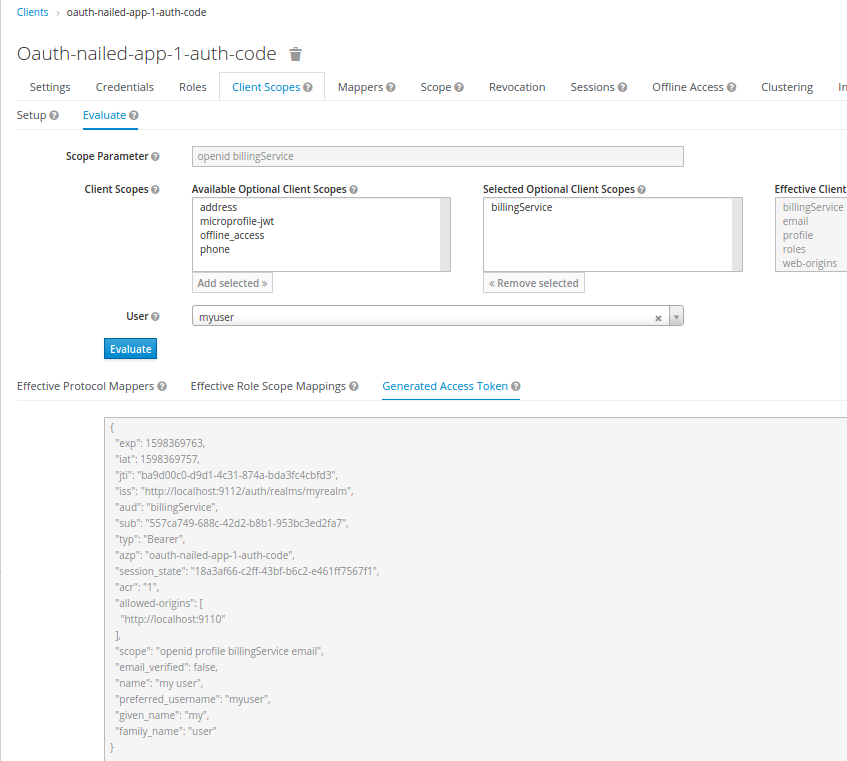
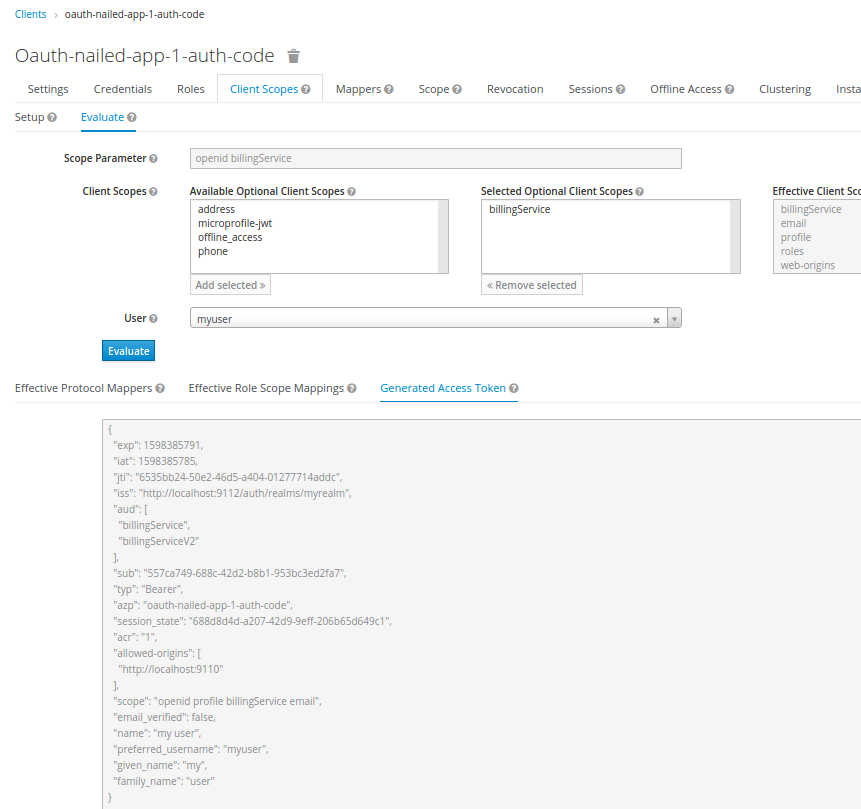
docs: Setup the billingServiceV2 Audience Mapper and check generated token includes output

diff --git a/README.md b/README.md
@@ -137,12 +137,15 @@ Add scope billingService to Client Scopes of clients
 - oauth-nailed-app-1-auth-code
   - Full Scope Allowed: OFF
 
-### Setup billingService Audience Mapper
+### Setup billingService and billingServiceV2 Audience Mapper
+
+<img src="./docs/KeycloakAdministerClientScopeBillingServiceAudienceMapper_2.png" alt="Setup billingService and billingServiceV2 Audience Mapper"
+    title="Setup billingService and billingServiceV2 Audience Mapper" width="700" height="auto" />
 
 <img src="./docs/KeycloakAdministerClientScopeBillingServiceAudienceMapper_1.png" alt="Setup billingService Audience Mapper"
 	title="Setup billingService Audience Mapper" width="700" height="auto" />
 
-### Check generated token including output of the setup billingService Audience Mapper
+### Check generated token includes output of the above billingService Audience Mapper
 
 <img src="./docs/KeycloakEvaluateGeneratedAccessToken_WithScopeAndAudienceMapper.png" alt="Check generated token for the billingService Audience Mapper"
 	title="Check generated token for the billingService Audience Mapper" width="700" height="auto" />
